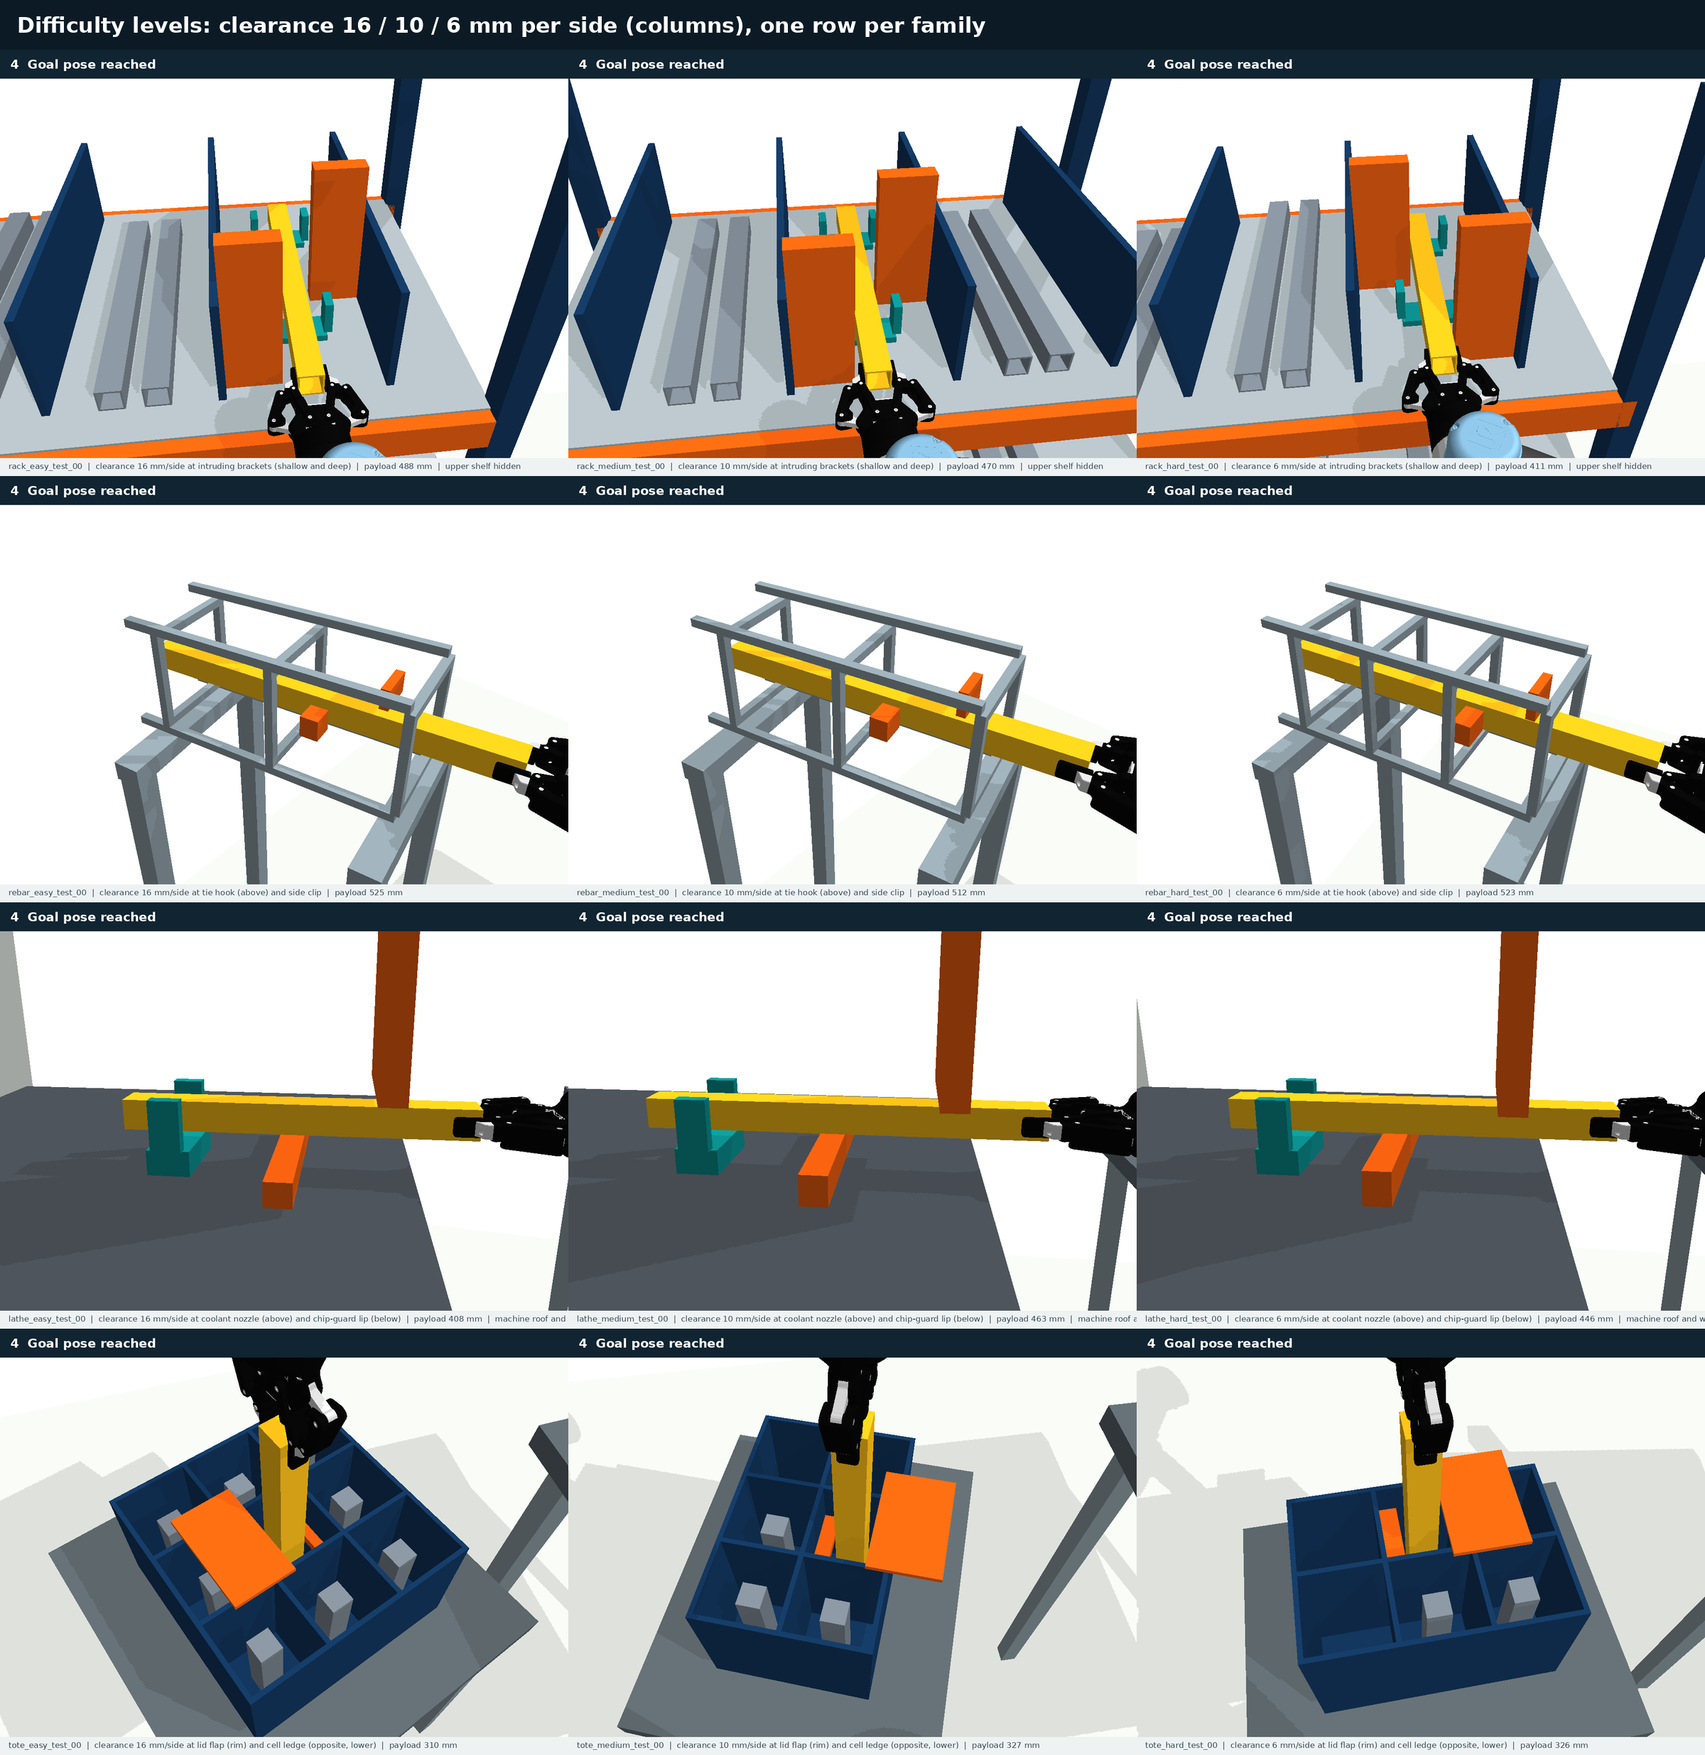
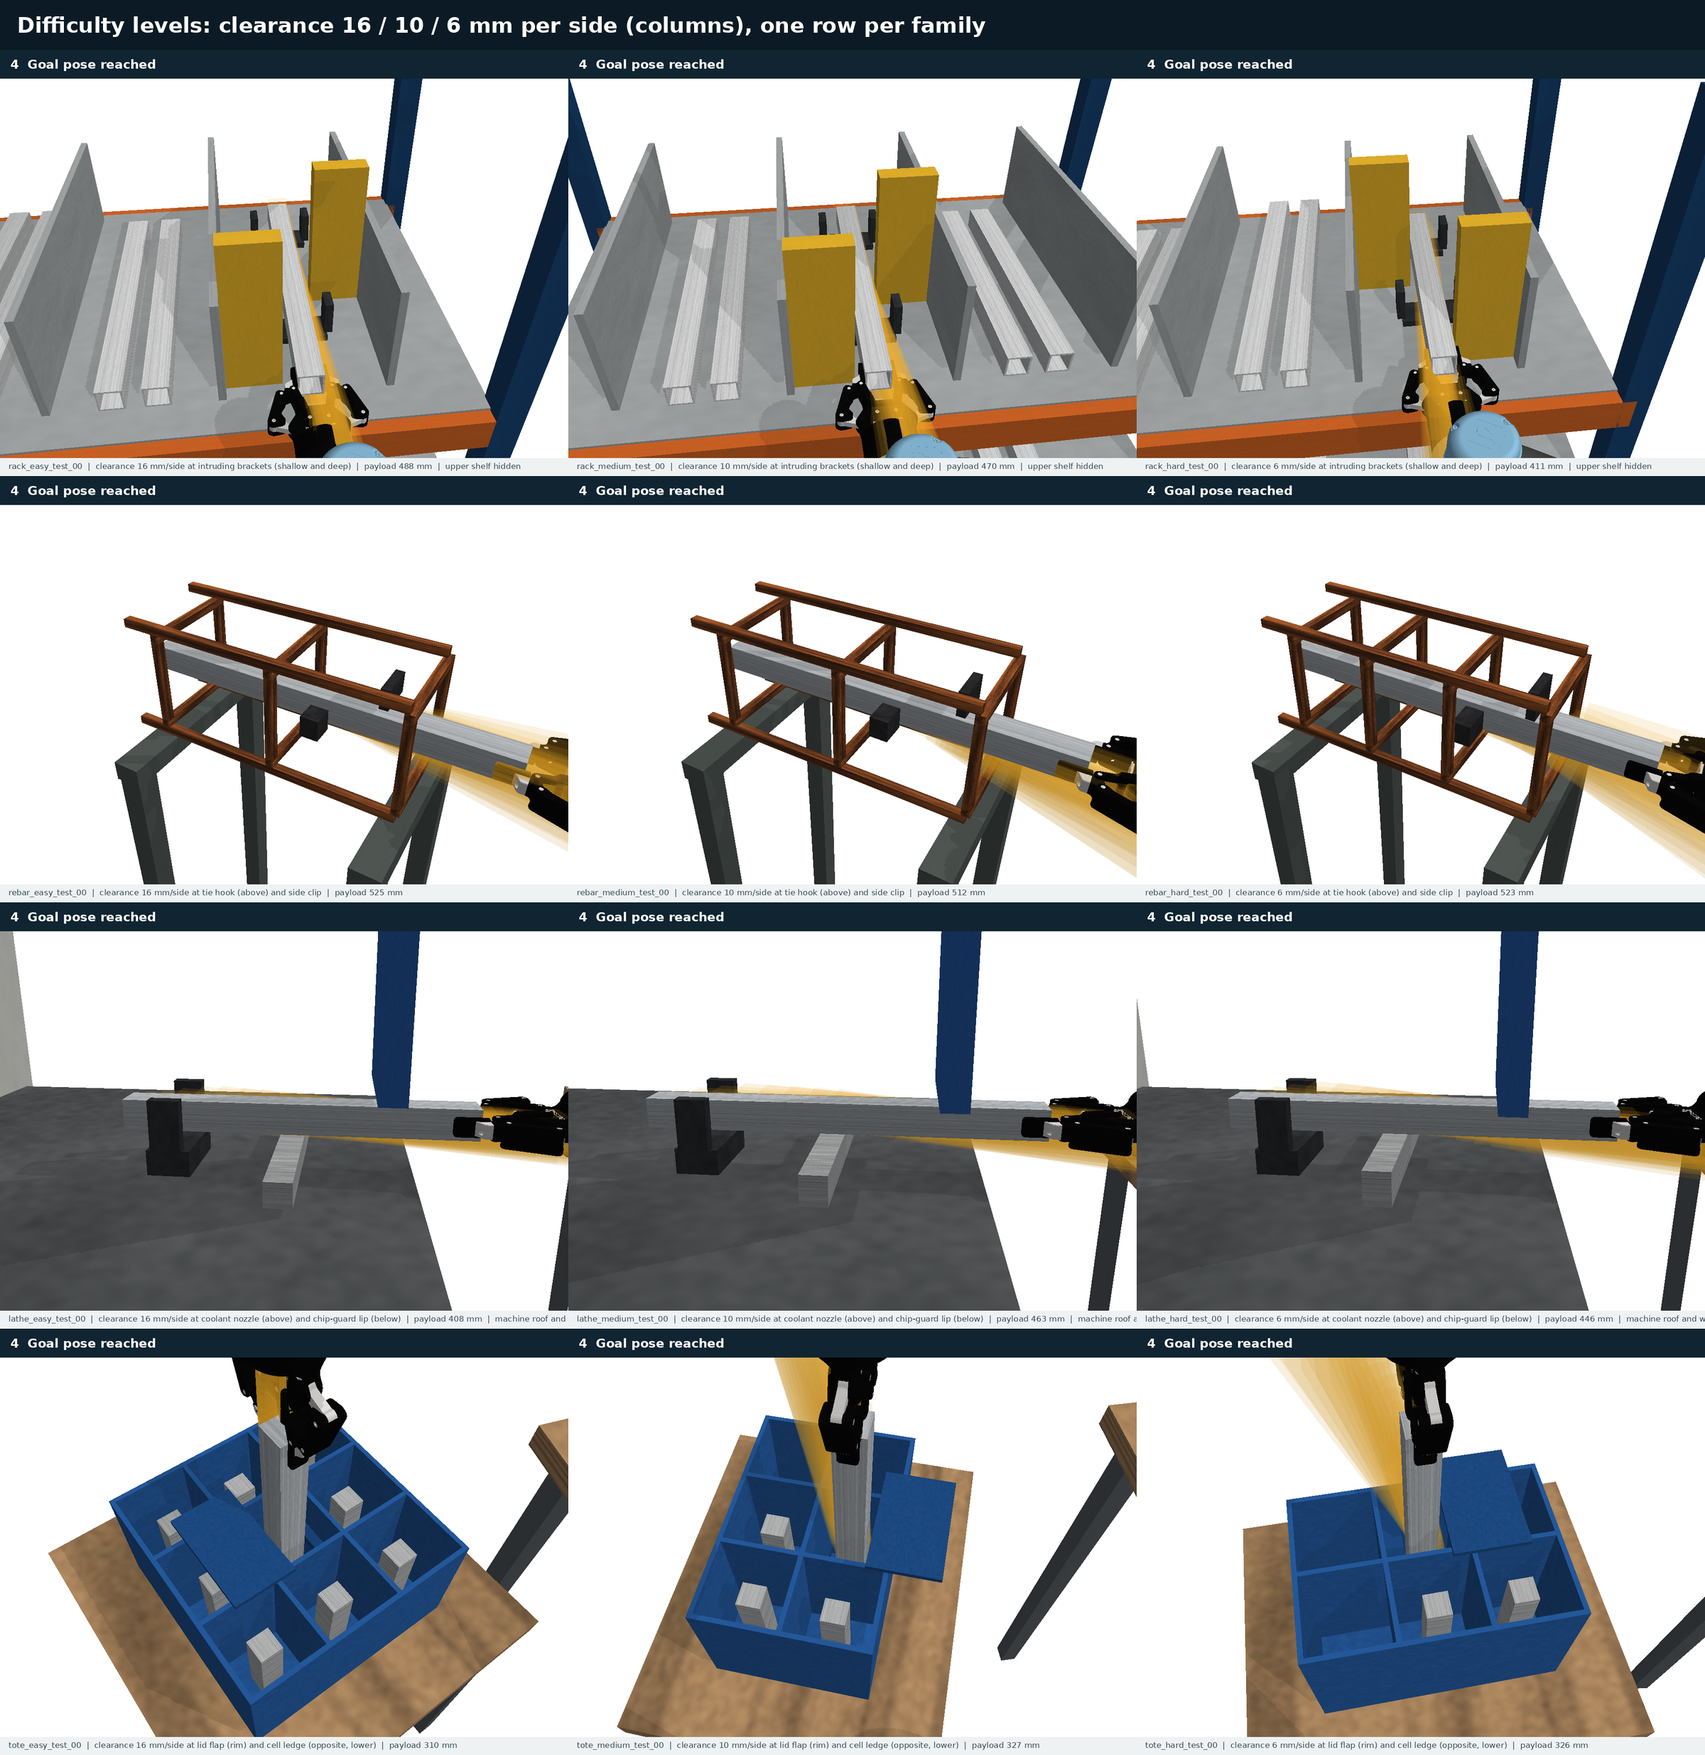
Render v0.4 screenshots with realistic materials
Screenshots now use procedural textures of industrial materials (painted
pallet rack, galvanised decks, rusty rebar, machine enclosure and cast
iron, blue plastic tote, wood worktops, brushed-steel payload) on a
clean white background without the floor. The payload's motion is drawn
as a translucent swept volume, and a new paper-style figure
(previews/suite_v0.4/scenes.png) shows each family's whole station,
framed automatically. Materials are applied at render time only: task
files, hashes and results are unchanged; evidence check and 50 tests
pass.

diff --git a/gosuite/render.py b/gosuite/render.py
@@ -4,6 +4,7 @@
 
 Produces, for representative tasks:
   <family>_workflow.png  four phases (start, aligned at the opening, inside the constraint, goal)
+  scenes.png             paper-style figure: whole station per family, payload motion as a translucent swept volume
   overview.png           one close-up per family
   levels.png             family x difficulty grid of goal close-ups
 Close-ups may hide occluding parts (machine roof, upper rack shelf); captions say so.
@@ -11,6 +12,7 @@ Close-ups may hide occluding parts (machine roof, upper rack shelf); captions sa
 import argparse
 import json
 import tempfile
+import zlib
 from multiprocessing import Pool
 from pathlib import Path
 import numpy as np
@@ -33,6 +35,110 @@ def is_v04(scene):
     return scene.get('generator', {}).get('suite_version') == 'v0.4'
 
 
+# Render-only materials. Task files keep their own diagnostic colours (and their hashes); screenshots use
+# procedural textures of industrial materials instead. Names are matched by prefix first, then roles.
+MATERIAL = dict(
+    worktop=(.66, .52, .37), powder_coat=(.34, .36, .38), black_oxide=(.17, .18, .19), dark_steel=(.22, .23, .24),
+    machined_al=(.66, .67, .68), bright_steel=(.66, .68, .70), aluminium=(.76, .77, .78), mill_steel=(.50, .52, .54),
+    galvanised=(.60, .62, .63), rack_blue=(.09, .25, .43), rack_orange=(.76, .37, .14), safety_yellow=(.84, .66, .16),
+    rust=(.45, .27, .16), stand_paint=(.30, .33, .32), wire=(.16, .16, .17), machine_grey=(.82, .83, .81),
+    cast_iron=(.30, .31, .32), hose_blue=(.16, .37, .68), stainless=(.64, .65, .66), tote_blue=(.14, .34, .60),
+    tote_lid=(.11, .28, .50))
+TEXTURE_KIND = dict(worktop='wood', rust='rust', bright_steel='brushed', aluminium='brushed', machined_al='brushed',
+                    stainless='brushed', mill_steel='brushed', galvanised='galvanised', black_oxide='dark', dark_steel='dark',
+                    cast_iron='dark', wire='dark', tote_blue='plastic', tote_lid='plastic', hose_blue='plastic')   # others: paint
+NAME_MATERIAL = [('robot_pedestal', 'dark_steel'), ('robot_base_plate', 'machined_al'), ('source_table', 'worktop'),
+                 ('tote_table_leg', 'powder_coat'), ('tote_table', 'worktop'), ('source_leg', 'powder_coat'),
+                 ('source_cradle', 'black_oxide'), ('source_holder', 'black_oxide'), ('source_waiting', 'mill_steel'),
+                 ('upright', 'rack_blue'), ('foot', 'rack_blue'), ('beam', 'rack_orange'), ('deck', 'galvanised'),
+                 ('rear_guard', 'powder_coat'), ('bracket', 'safety_yellow'), ('target_saddle', 'black_oxide'),
+                 ('target_guide', 'black_oxide'), ('stock', 'aluminium'), ('longitudinal', 'rust'), ('stirrup', 'rust'),
+                 ('stand_', 'stand_paint'), ('tie_hook', 'wire'), ('side_clip', 'wire'), ('machine_bed', 'cast_iron'),
+                 ('coolant_nozzle', 'hose_blue'), ('chip_guard', 'stainless'), ('fixture', 'black_oxide'), ('chuck', 'black_oxide'),
+                 ('lid_flap', 'tote_lid'), ('cell_ledge', 'tote_blue'), ('tote_floor', 'tote_blue'), ('tote_wall', 'tote_blue'),
+                 ('kitted_part', 'machined_al')]
+ROLE_MATERIAL = dict(machine_enclosure='machine_grey', machine_structure='cast_iron', rack_structure='rack_blue',
+                     bin_divider='galvanised', neighbor_stock='aluminium', cage_structure='rust', cage_support='stand_paint',
+                     station_table='worktop', tote='tote_blue', robot_mount='dark_steel', source_fixture='powder_coat',
+                     source_stock='mill_steel', target_guide='black_oxide', target_support='black_oxide')
+ROLE_MATERIAL_BY_FAMILY = {('rack', 'intrusion'): 'safety_yellow', ('rebar', 'intrusion'): 'wire',
+                           ('tote', 'intrusion'): 'tote_lid', ('tote', 'bin_divider'): 'tote_blue'}
+TRAIL_COLOR = np.array([240., 172., 38.])   # translucent amber swept volume of the payload
+_TEXTURES, _TEX_DIR = {}, []
+
+
+def material_key(scene, name, role):
+    if (scene['family'], role) in ROLE_MATERIAL_BY_FAMILY:
+        return ROLE_MATERIAL_BY_FAMILY[(scene['family'], role)]
+    if scene['family'] == 'tote' and name.startswith('divider'):
+        return 'tote_blue'
+    return next((m for prefix, m in NAME_MATERIAL if name.startswith(prefix)), None) or ROLE_MATERIAL.get(role)
+
+
+def texture_image(key, size=1024):
+    """Procedural texture (wood grain, rust, brushed or galvanised metal, oxide, plastic, paint), deterministic."""
+    from scipy.ndimage import gaussian_filter
+    rng = np.random.default_rng(zlib.crc32(key.encode()))
+    noise = lambda sigma: (lambda a: a / (a.std() + 1e-9))(gaussian_filter(rng.normal(size=(size, size)), sigma, mode='wrap'))
+    base = np.array(MATERIAL[key]) * 255
+    kind = TEXTURE_KIND.get(key, 'paint')
+    if kind == 'wood':
+        y = np.mgrid[0:size, 0:size][0]
+        rings = (np.sin(y / 9.6 + 2.5 * noise((80, 280)) + .6 * noise((4, 100))) + 1) / 2
+        img = base * (1 - .24 * rings ** 2 + .03 * noise(2))[..., None]
+    elif kind == 'rust':
+        blot, speck = noise(36), noise(3)
+        orange, dark = np.array([158., 86., 40.]), np.array([70., 40., 26.])
+        mix = np.clip(.5 + .3 * blot, 0, 1)[..., None]
+        img = (dark * (1 - mix) + orange * mix) * (1 + .10 * speck)[..., None] * .95 + base * .05
+    elif kind == 'brushed':
+        img = base * (1 + .05 * noise((1.5, 180)) + .015 * noise(1.5))[..., None]
+    elif kind == 'galvanised':
+        img = base * (1 + .012 * noise(16) + .01 * noise(2))[..., None]
+    elif kind == 'dark':
+        img = base * (1 + .05 * noise(24) + .03 * noise(2))[..., None]
+    elif kind == 'plastic':
+        img = base * (1 + .02 * noise(2))[..., None]
+    else:   # paint: faint orange peel and wear
+        img = base * (1 + .006 * noise(56) + .007 * noise(2))[..., None]
+    return np.clip(img, 0, 255).astype(np.uint8)
+
+
+def texture(world, key):
+    if (world.cid, key) not in _TEXTURES:
+        if not _TEX_DIR:
+            _TEX_DIR.append(tempfile.mkdtemp(prefix='gosuite_tex_'))
+        path = Path(_TEX_DIR[0]) / f'{key}.png'
+        if not path.exists():
+            Image.fromarray(texture_image(key)).save(path)
+        _TEXTURES[(world.cid, key)] = p.loadTexture(str(path), physicsClientId=world.cid)
+    return _TEXTURES[(world.cid, key)]
+
+
+def _paint(world, body, key=None, rgba=None):
+    for i, shape in enumerate(p.getVisualShapeData(body, physicsClientId=world.cid)):
+        if key is not None:
+            p.changeVisualShape(body, -1, shapeIndex=i, textureUniqueId=texture(world, key), rgbaColor=[1, 1, 1, 1],
+                                physicsClientId=world.cid)
+        else:   # unknown object: keep its hue, muted towards grey
+            grey = float(np.dot(shape[7][:3], [.3, .59, .11]))
+            p.changeVisualShape(body, -1, shapeIndex=i, rgbaColor=[.45 * c + .55 * grey for c in shape[7][:3]] + [1.],
+                                physicsClientId=world.cid)
+
+
+def apply_materials(world, scene, floor=False):
+    """Textured industrial materials; the floor is removed (objects on a clean white background)."""
+    for body, name in list(world.names.items()):
+        role = world.roles.get(body)
+        if role == 'floor' or name == 'floor':
+            if not floor:
+                p.removeBody(body, physicsClientId=world.cid)
+                del world.names[body]
+            continue
+        _paint(world, body, material_key(scene, name, role))
+    _paint(world, world.payload, 'aluminium' if 'alumin' in scene['payload'].get('material', '') else 'bright_steel')
+
+
 def font(size, bold=False):
     name = 'DejaVuSans-Bold.ttf' if bold else 'DejaVuSans.ttf'
     try:
@@ -41,14 +147,39 @@ def font(size, bold=False):
         return ImageFont.load_default()
 
 
-def snapshot(world, q, eye, target, width, height, fov=42):
-    world.set_q(q)
-    world.place_payload()
+def render(world, eye, target, width, height, fov=42):
     view = p.computeViewMatrix(list(eye), list(target), [0, 0, 1])
     proj = p.computeProjectionMatrixFOV(fov, width / height, .02, 8)
-    rgba = p.getCameraImage(width, height, view, proj, renderer=p.ER_TINY_RENDERER, lightDirection=[-3, -4, 7], shadow=1,
-                            lightAmbientCoeff=.55, lightDiffuseCoeff=.6, lightSpecularCoeff=.2, physicsClientId=world.cid)[2]
-    return np.reshape(np.asarray(rgba, dtype=np.uint8), (height, width, 4))[:, :, :3]
+    img = p.getCameraImage(width, height, view, proj, renderer=p.ER_TINY_RENDERER, lightDirection=[-3, -4, 7], shadow=1,
+                           lightColor=[1., .98, .95], lightAmbientCoeff=.5, lightDiffuseCoeff=.55, lightSpecularCoeff=.12,
+                           physicsClientId=world.cid)
+    rgb = np.reshape(np.asarray(img[2], dtype=np.uint8), (height, width, 4))[:, :, :3].copy()
+    seg = np.reshape(np.asarray(img[4]), (height, width))
+    rgb[seg < 0] = 255
+    return rgb, seg
+
+
+def snapshot(world, q, eye, target, width, height, fov=42, trail=None, alpha=.14):
+    """Image at configuration q. ``trail``: payload poses drawn as a translucent amber swept volume."""
+    world.set_q(q)
+    world.place_payload()
+    rgb, seg = render(world, eye, target, width, height, fov)
+    if trail is not None and len(trail):
+        held = world.payload_T
+        count, light = np.zeros(seg.shape), np.zeros(seg.shape)
+        for pose in trail:
+            world.place_payload_pose(pose)
+            img, s = render(world, eye, target, width, height, fov)
+            m = s == world.payload
+            count += m
+            light += m * img.mean(axis=2) / 255
+        world.place_payload_pose(held)
+        cover = (1 - (1 - alpha) ** count)[..., None]
+        shade = (.62 + .5 * light / np.maximum(count, 1))[..., None]
+        ghost = np.clip(TRAIL_COLOR * shade, 0, 255)
+        keep = (seg == world.payload)[..., None]   # the held payload itself stays opaque
+        rgb = np.where(keep, rgb, rgb * (1 - cover) + ghost * cover).astype(np.uint8)
+    return rgb
 
 
 def phases(scene, path, world):
@@ -97,6 +228,44 @@ def cameras(scene):
     return wide, close
 
 
+def frame_scene(world, eye, target, aspect, payload_poses=(), fov=42, fill=.9):
+    """Camera along the eye->target direction that fits every body (and the payload's path) into the image."""
+    boxes = [p.getAABB(b, physicsClientId=world.cid) for b in world.names]
+    boxes += [p.getAABB(world.robot, l, physicsClientId=world.cid) for l in range(-1, p.getNumJoints(world.robot, physicsClientId=world.cid))]
+    pts = np.array([[c[i][0], c[j][1], c[k][2]] for c in boxes for i in (0, 1) for j in (0, 1) for k in (0, 1)])
+    if len(payload_poses):
+        pts = np.vstack([pts, np.array([t[:3, 3] for t in payload_poses])])
+    centre = (pts.min(0) + pts.max(0)) / 2
+    back = np.asarray(eye, float) - np.asarray(target, float)
+    back /= np.linalg.norm(back)
+    right = np.cross([0, 0, 1.], -back)
+    right /= np.linalg.norm(right)
+    up = np.cross(-back, right)
+    t_y = np.tan(np.radians(fov) / 2)
+    dist = 2.
+    for _ in range(30):
+        rel = pts - (centre + back * dist)
+        z = np.maximum(rel @ -back, 1e-3)
+        sx = np.abs(rel @ right / z) / (t_y * aspect)
+        sy = np.abs(rel @ up / z) / t_y
+        worst = max(sx.max(), sy.max()) / fill
+        dist *= worst ** .5 if worst > 1 else max(worst, .7) ** .5
+        if abs(worst - 1) < .01:
+            break
+    return centre + back * dist, centre
+
+
+def fit_to_content(img, width, height, margin=.04):
+    """Crop to the non-white content, then centre it on a white width x height canvas."""
+    ys, xs = np.nonzero((img < 250).any(axis=2))
+    crop = Image.fromarray(img[ys.min():ys.max() + 1, xs.min():xs.max() + 1])
+    scale = min(width * (1 - 2 * margin) / crop.width, height * (1 - 2 * margin) / crop.height)
+    crop = crop.resize((round(crop.width * scale), round(crop.height * scale)), Image.LANCZOS)
+    canvas = Image.new('RGB', (width, height), 'white')
+    canvas.paste(crop, ((width - crop.width) // 2, (height - crop.height) // 2))
+    return np.asarray(canvas)
+
+
 def annotate(img, title, footer):
     img = Image.fromarray(img)
     w, h = img.size
@@ -125,16 +294,25 @@ def render_task(job):
     out.mkdir(parents=True, exist_ok=True)
     world = SuiteWorld(scene)
     try:
+        apply_materials(world, scene)
         idx = phases(scene, path, world)
+        poses = []
+        for q in path:
+            world.set_q(q)
+            poses.append(world.place_payload())
+        pick = lambda a, b, n: [poses[i] for i in np.unique(np.linspace(a, b, n).round().astype(int))]
         (wide_eye, wide_t), (close_eye, close_t) = cameras(scene)
         start = snapshot(world, path[idx[0]], wide_eye, wide_t, width, height)
         aligned = snapshot(world, path[idx[1]], wide_eye, wide_t, width, height)
+        scene_eye, scene_t = frame_scene(world, wide_eye, wide_t, width / height, poses)
+        whole = snapshot(world, path[idx[2]], scene_eye, scene_t, 2 * width, 2 * height, trail=pick(0, len(path) - 1, 48), alpha=.10)
+        whole = fit_to_content(whole, width, height)
         for name in (HIDE_FOR_CLOSEUP_V04 if is_v04(scene) else HIDE_FOR_CLOSEUP).get(fam, ()):
             for body, n in list(world.names.items()):
                 if n == name:
                     p.removeBody(body, physicsClientId=world.cid)
         inside = snapshot(world, path[idx[2]], close_eye, close_t, width, height)
-        goal = snapshot(world, path[idx[3]], close_eye, close_t, width, height)
+        goal = snapshot(world, path[idx[3]], close_eye, close_t, width, height, trail=pick(idx[1], len(path) - 1, 18))
     finally:
         world.close()
     hidden = fam in (HIDE_FOR_CLOSEUP_V04 if is_v04(scene) else HIDE_FOR_CLOSEUP)
@@ -151,6 +329,7 @@ def render_task(job):
     panels[2].save(out / f'{stem}_inside.png')
     panels[3].save(out / f'{stem}_goal.png')
     panels[1].save(out / f'{stem}_aligned.png')
+    Image.fromarray(whole).save(out / f'{stem}_scene.png')
     return scene['id'], fam, scene['level']
 
 
@@ -164,6 +343,19 @@ def grid(images, cols, cell, title=None):
         d.text((24, 18), title, font=font(30, True), fill='white')
     for i, img in enumerate(images):
         board.paste(img.resize(cell, Image.LANCZOS), ((i % cols) * cell[0], (i // cols) * cell[1] + top))
+    return board
+
+
+def labelled_grid(images, labels, cols, cell, pad=14):
+    """Paper-style figure: panels on white with (a), (b), ... captions underneath."""
+    rows = (len(images) + cols - 1) // cols
+    cap = 54
+    board = Image.new('RGB', (cols * cell[0], rows * (cell[1] + cap)), 'white')
+    d = ImageDraw.Draw(board)
+    for i, (img, label) in enumerate(zip(images, labels)):
+        x, y = (i % cols) * cell[0], (i // cols) * (cell[1] + cap)
+        board.paste(img.resize(cell, Image.LANCZOS), (x, y))
+        d.text((x + pad, y + cell[1] + 10), f'({chr(97 + i)}) {label}', font=font(28, True), fill='#111111')
     return board
 
 
@@ -193,6 +385,9 @@ def main():
         for fam in families:
             Image.open(tasks / f"{by[(fam, 'medium')]}_workflow.png").save(out / f'{fam}_workflow.png', optimize=True)
         version = manifest.get('suite_version', 'v0.3')
+        titles = FAMILY_TITLE_V04 if version == 'v0.4' else FAMILY_TITLE
+        labelled_grid([Image.open(tasks / f"{by[(f, 'medium')]}_scene.png") for f in families],
+                      [titles[f].split(' ', 1)[1] for f in families], 2, (a.width, a.height)).save(out / 'scenes.png', optimize=True)
         grid([Image.open(tasks / f"{by[(f, 'medium')]}_inside.png") for f in families], 2, (a.width, a.height),
              f'gosuite {version} - four application families (medium level, test split)').save(out / 'overview.png', optimize=True)
         grid([Image.open(tasks / f"{by[(f, l)]}_goal.png") for f in families for l in levels], 3, (a.width * 2 // 3, a.height * 2 // 3),
